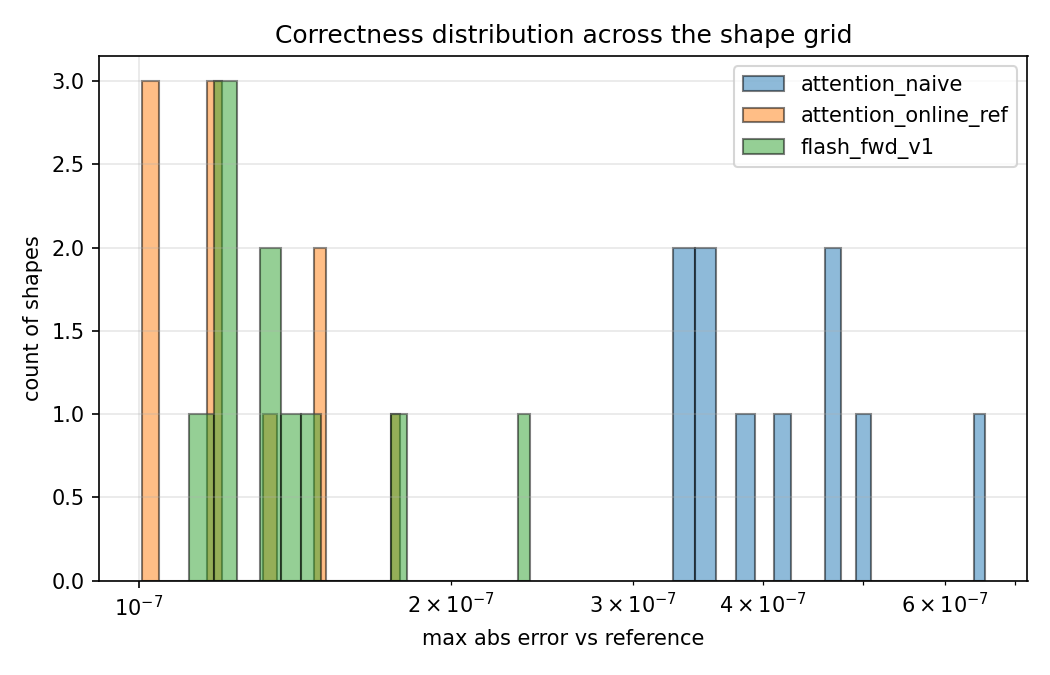
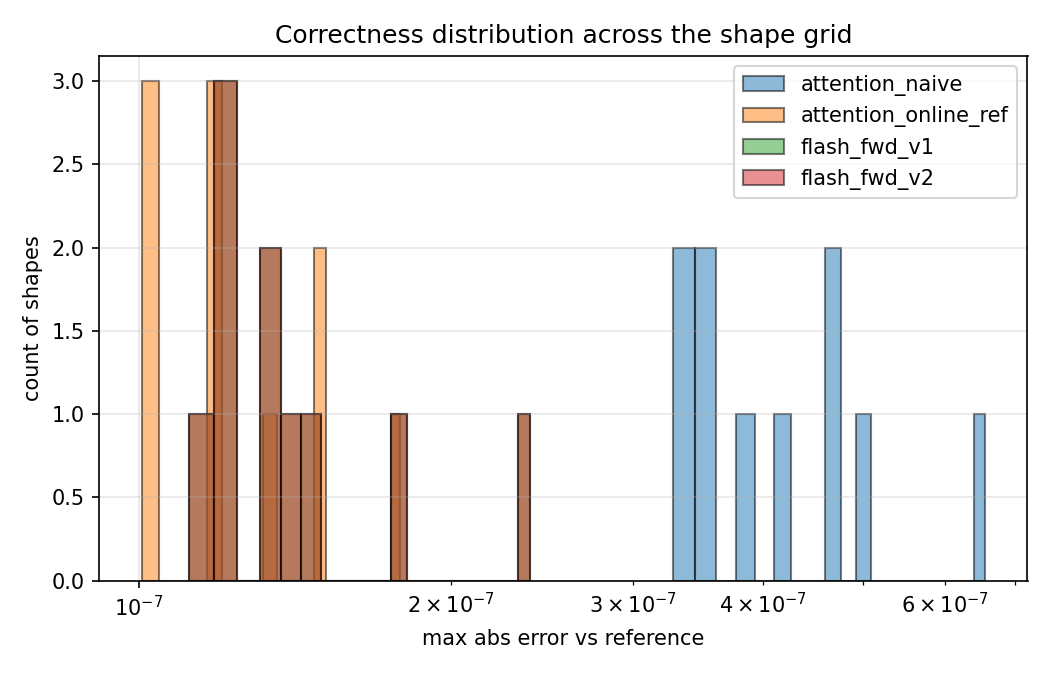
bench(m6): 50-row T4 sweep with flash_fwd_v2 + regenerated plots
Replaces the M5-era all.csv (40 rows, 4 variants, git_sha 5c55da0) with
the full five-variant sweep at 5d07586 on Tesla T4. Every M6 figure in
the README and docs now traces back to a row here, closing the exception
flagged in MILESTONES §M6 Status.

Numbers re-derived from a SINGLE sweep rather than across two. The naive
baseline at N=2048 D=64 is 6.7144 ms in this run vs 6.6619 ms in the M5
sweep, so the v2-over-naive figure moves 7.5x -> 7.6x. Updated in
theory/M6.md §13.1, flash_attention_notes.md, MILESTONES and README. The
6.66 ms in theory/M6.md §13 is left alone on purpose: that paragraph is
the pre-registration, and it correctly records what was known before
measuring.

The single-point framing was underselling the result. v1's problem was
not losing to naive at N=2048; it was losing from N=1024 onward, exactly
where the approach is supposed to pay. v2 beats naive at all ten shapes,
6.6x-21.9x. Added that table to §13.1 — it is the clearest evidence the
project's thesis now holds, and speedup_vs_naive.png shows it directly:
v2 clears the 1.0x line everywhere, v1 drops under it twice.

One row recorded with a caveat rather than as a win: at N=256 D=64, v2 is
faster than torch_ref (0.0792 vs 0.0976 ms). It is the only such row, and
torch's own N=512 figure (0.1086 ms) is slower than its N=256 one, which
suggests backend selection rather than a like-for-like loss. §13.1 says
so instead of quoting 0.81x as a headline.
[…]

diff --git a/docs/MILESTONES.md b/docs/MILESTONES.md
@@ -359,19 +359,18 @@ before ticking the milestone. These are what separate "I typed the kernel" from
 - [x] Naming/registration in the harness so v1 and v2 appear side-by-side in plots — `bindings.cu`, `flash_from_scratch/__init__.py`, `benchmarks/variants.py`, `perf_model.py`, `plot.py` (`VARIANT_ORDER`), `tests/test_all_variants.py`.
 - [x] **Runs faster than v1 on at least `N ≥ 512, D=64`; log the improvement in `docs/flash_attention_notes.md`.** Passed at **6.27× / 11.76× / 13.22×** for `N = 512 / 1024 / 2048` at `D = 64`. Logged in `docs/flash_attention_notes.md` (top callout) and `theory/M6.md` §13.1, which also scores the pre-registered 4–7× prediction and explains why it came in low.
 
-**Status.** **Complete** on `5d07586` (2026-08-16), Colab Tesla T4 / nvcc 12.8. All 10 TODOs done. **Headline: 13.22× over v1 at `N = 2048, D = 64` (11.69 ms → 0.88 ms)**, with the full grid ranging 3.41×–13.22× and widening with `N`. The bar that actually mattered — the one `theory/M6.md` §13 named above the MILESTONES bar — is beating `attention_naive` at `N = 2048, D = 64`: v1 *lost* there (6.66 ms vs 11.69 ms, 0.57×), v2 wins by **7.5×**. The gap to `torch_ref` (cuBLAS SDPA, 0.426 ms) narrows from ~27× to ~2.1×, i.e. 3.7% → **48%** of torch's effective throughput. Correctness: `test_flash_fwd_v2` passes 25/25 (1 config guard + 8 edge + 10 `M6Grid` + 6 `M6Parity`), full `ctest` 79/79, pytest 74/74; `max_abs_err_vs_ref` is *identical* to v1's in all ten benchmark rows, which is the empirical form of the bit-parity claim. `ptxas`: **zero spills in either kernel** (v1 63 registers, v2 64 at both `D`), and warps/SM is 32 for both — so the reported "occupancy" is unchanged across a 13× speedup, exactly as `theory/M6.md` §7.2 predicted. Details in `docs/ptxas_v1_vs_v2.md` §3 and `theory/M6.md` §13.1, the latter also scoring the pre-registered 4–7× prediction (too conservative) and explaining why.
+**Status.** **Complete** on `5d07586` (2026-08-16), Colab Tesla T4 / nvcc 12.8. All 10 TODOs done. **Headline: 13.22× over v1 at `N = 2048, D = 64` (11.69 ms → 0.88 ms)**, with the full grid ranging 3.41×–13.22× and widening with `N`. The bar that actually mattered — the one `theory/M6.md` §13 named above the MILESTONES bar — is beating `attention_naive` at `N = 2048, D = 64`: v1 *lost* there (6.71 ms vs 11.69 ms, 0.57×), v2 wins by **7.6×** — and v2 now beats naive at **all ten shapes** (6.6×–21.9×), where v1 fell behind from `N = 1024` onward. The gap to `torch_ref` (cuBLAS SDPA, 0.426 ms) narrows from ~27× to ~2.1×, i.e. 3.6% → **48%** of torch's effective throughput. Correctness: `test_flash_fwd_v2` passes 25/25 (1 config guard + 8 edge + 10 `M6Grid` + 6 `M6Parity`), full `ctest` 79/79, pytest 74/74; `max_abs_err_vs_ref` is *identical* to v1's in all ten benchmark rows, which is the empirical form of the bit-parity claim. `ptxas`: **zero spills in either kernel** (v1 63 registers, v2 64 at both `D`), and warps/SM is 32 for both — so the reported "occupancy" is unchanged across a 13× speedup, exactly as `theory/M6.md` §7.2 predicted. Details in `docs/ptxas_v1_vs_v2.md` §3 and `theory/M6.md` §13.1, the latter also scoring the pre-registered 4–7× prediction (too conservative) and explaining why.
 
-**Two items carried out of M6 rather than blocking it.** Both are recorded here so the `[x]` is not silently overclaiming:
+**One item carried out of M6 rather than blocking it**, recorded here so the `[x]` is not silently overclaiming: the **Nsight bank-conflict metric is deferred to M9 by design.** It needs `ncu`, and `docs/flash_attention_notes.md`'s change log already scheduled Nsight backfill for the M9 landing commit. The *prediction* attached to it (occupancy will not move) is independently confirmed by `ptxas`: 32 warps/SM for both kernels.
 
-1. **Nsight bank-conflict metric — deferred to M9 by design.** It needs `ncu`, and `docs/flash_attention_notes.md`'s change log already scheduled Nsight backfill for the M9 landing commit. The *prediction* attached to it (occupancy will not move) is independently confirmed by `ptxas`: 32 warps/SM for both kernels.
-2. **`benchmarks/results/all.csv` still lacks the v2 rows**, and `docs/plots/*.png` predate v2. Until that lands, the 13.22× / 7.5× / 48% figures quoted above and in the README trace to `docs/ptxas_v1_vs_v2.md` and `theory/M6.md` §13.1 — not to a committed CSV row. That is a live exception to M5's portfolio hook (*"every claim in the README traces back to a row in `all.csv`"*) and should be closed by a `bench(m6)` commit before M10 polish.
+*(Previously also carried: the benchmark artifacts. **Closed** — `benchmarks/results/all.csv` is now the 50-row, five-variant sweep at `5d07586`, and `docs/plots/*.png` are regenerated with the v2 series. Every figure quoted above traces to a row in that file, restoring M5's portfolio hook.)*
 
 **Verification plan.**
 
 - Correctness parity with v1. **✓ Passed** — `M6Parity` diffs v2 against v1 directly at 1e-5 (tighter than the 5e-4 CPU-ref bound) across 6 shapes, plus a Python mirror in `tests/test_all_variants.py`. Benchmark rows corroborate: identical `max_abs_err_vs_ref` for v1 and v2 at every shape.
 - Nsight Compute shows: fewer bank conflicts, higher achieved occupancy, or higher DRAM throughput than v1 — pick which and prove it. **Picked: fewer bank conflicts** (`l1tex__data_bank_conflicts_pipe_lsu_mem_shared`, predicted ~8.4× drop). Explicitly *not* achieved occupancy — it reads 100% for both v1 and v2, for the reason derived in `theory/M6.md` §7.2, and any claim resting on it would be resting on the wrong number. **⏳ Carried to M9** (needs `ncu`; the notes change log already scheduled Nsight backfill there). The prediction that occupancy would *not* move is already confirmed independently: `ptxas` gives 32 warps/SM for both kernels.
 - `docs/ptxas_v1_vs_v2.md` exists and its numbers are consistent with your occupancy claim (fewer registers → higher theoretical occupancy, no spills, etc.). **✓ Passed, with the parenthetical corrected.** No spills in either kernel, as required. But "fewer registers" is *not* what happened: v2 uses **more** registers per thread (64 vs 63) and fewer per *CTA* (32,768 vs 64,512). The occupancy claim rests on CTA-level residency — v2 reaches 2 CTAs/SM on the thread, register and shared-memory limits simultaneously — not on per-thread register count, which moved the wrong way. See `docs/ptxas_v1_vs_v2.md` §2.2, §3.
-- New plot row in `docs/plots/runtime_vs_N.png` showing v2 above v1. **⏳ Carried** — the sweep ran on Colab and v2 is comfortably above v1 at every shape, but the refreshed PNGs and `all.csv` were not brought back from the session. Regenerate with `scripts/bench.sh` and land as `bench(m6)`; see the second carried item under **Status**.
+- New plot row in `docs/plots/runtime_vs_N.png` showing v2 above v1. **✓ Passed** — `docs/plots/*.png` regenerated from the 50-row sweep; v2 sits below v1 (faster) at every shape on `runtime_vs_N.png`, and clears 1.0× everywhere on `speedup_vs_naive.png`, which v1 does not.
 
 **Understanding checkpoint.**
 

diff --git a/docs/flash_attention_notes.md b/docs/flash_attention_notes.md
@@ -10,8 +10,8 @@ Everything below is measured against `csrc/flash_fwd_v1.cu` at the M4 landing co
 >
 > Two consequences worth stating plainly, because they change the repo's headline claims:
 >
-> - **Flash now beats the naive kernel where it matters.** `attention_naive` is 6.66 ms at that shape. v1 *lost* to it (0.57×); v2 wins by **7.5×**. The project's central thesis — that IO-aware attention wins at large `N` — was not actually demonstrated by v1, and is now demonstrated by v2.
-> - **The gap to `torch_ref` (cuBLAS SDPA, 0.426 ms) closes from ~27× to ~2.1×**, i.e. from 3.7% to **48%** of torch's effective throughput.
+> - **Flash now beats the naive kernel everywhere, not just somewhere.** `attention_naive` is 6.71 ms at that shape; v1 *lost* to it (0.57×), v2 wins by **7.6×**. More important than the single point: v1 beat naive only at small `N` and fell behind from `N = 1024` (0.79× at `D=64`, 0.65× at `N=2048, D=32`), whereas **v2 wins at all ten shapes**, by 6.6×–21.9×. The project's central thesis — that IO-aware attention wins at large `N` — was not actually demonstrated by v1, and is now.
+> - **The gap to `torch_ref` (cuBLAS SDPA, 0.426 ms) closes from ~27× to ~2.1×**, i.e. from 3.6% to **48%** of torch's effective throughput.
 >
 > Full table and the analysis of why the pre-registered prediction (4–7×) came in low: [`../theory/M6.md`](../theory/M6.md) §13.1. Compiler-side evidence — **no register spills in either kernel**, and warps/SM identical at 32, so "occupancy" did not move at all: [`ptxas_v1_vs_v2.md`](ptxas_v1_vs_v2.md) §3.
 
@@ -145,8 +145,9 @@ At `D = 64, Br = 32`, **M4's asymptotic HBM ratio vs naive is 1× (parity)** —
 ## Change log
 
 - **M4 landing commit** — this file is created; sections 1–10 enumerated (§11 added shortly after).
-- **M6 landing commit** — sections **1, 2, 3, 4, 11 closed**; section 5 restated as M7-only (T4 is Turing); section 7's budget revised downward; section **12 opened** as the largest remaining lever.
-- **M6 measurement (Colab T4, `5d07586`)** — 13.2× at \(N = 2048, D = 64\); Flash overtakes `attention_naive` for the first time (7.5×). Recorded in the callout at the top of this file and in [`../theory/M6.md`](../theory/M6.md) §13.1. **One substantive correction:** §2's claim that `sV` suffered the same 32-way conflict as `sK` was wrong — `sV`'s lane-stride is 1. The full per-access audit that settles it is in [`../theory/M6.md`](../theory/M6.md) §5.1, and the error is dissected in §5.2 because the *reason* it was wrong (mistaking a loop counter for the lane index) is the single most common way to misread a shared-memory access pattern.
+- **M6 landing commit** — sections **1, 2, 3, 4, 11 closed**; section 5 restated as M7-only (T4 is Turing); section 7's budget revised downward; section **12 opened** as the largest remaining lever. **One substantive correction:** §2's claim that `sV` suffered the same 32-way conflict as `sK` was wrong — `sV`'s lane-stride is 1. The full per-access audit that settles it is in [`../theory/M6.md`](../theory/M6.md) §5.1, and the error is dissected in §5.2 because the *reason* it was wrong (mistaking a loop counter for the lane index) is the single most common way to misread a shared-memory access pattern.
+- **M6 measurement (Colab T4, `5d07586`)** — 13.2× over v1 at \(N = 2048, D = 64\); Flash overtakes `attention_naive` for the first time (7.6× there, and at *every* shape in the sweep). Recorded in the callout at the top of this file and in [`../theory/M6.md`](../theory/M6.md) §13.1.
+- **M6 benchmark artifacts** — `benchmarks/results/all.csv` refreshed to the 50-row, five-variant sweep at `5d07586`; `docs/plots/*.png` regenerated with the v2 series.
 - **M7 landing commit** — sections 5, 7, 8, 9 to be marked *closed*.
 - **M9 landing commit** — Nsight metrics backfilled into §2 and §4 (`l1tex__data_bank_conflicts_pipe_lsu_mem_shared`, stall-reason breakdown).
 - **M10 landing commit** — section 6 explicitly *not closed*; framed as "reading the gap."

diff --git a/theory/M6.md b/theory/M6.md
@@ -664,7 +664,20 @@ They don't multiply cleanly: once the biggest bottleneck goes, the second-bigges
 | 64 | 1024 | 2.9474 | 0.2506 | **11.76×** |
 | 64 | 2048 | 11.6915 | 0.8843 | **13.22×** |
 
-Both bars from above are cleared. The MILESTONES bar (faster at \(N \ge 512, D = 64\)) passes with 6.27×, 11.76× and 13.22×. The bar that actually mattered — **beating `attention_naive` at \(N = 2048, D = 64\)** — flips from a loss to a rout: naive is 6.66 ms, v1 lost to it at 0.57×, and v2 wins at **7.5×**. For scale, `torch_ref` (cuBLAS-backed SDPA) is 0.426 ms at that shape, so v2 now runs at **48% of torch's effective throughput**, up from v1's 3.7%.
+Both bars from above are cleared. The MILESTONES bar (faster at \(N \ge 512, D = 64\)) passes with 6.27×, 11.76× and 13.22×. The bar that actually mattered — **beating `attention_naive` at \(N = 2048, D = 64\)** — flips from a loss to a rout: naive is 6.71 ms, v1 lost to it at 0.57×, and v2 wins at **7.6×**. For scale, `torch_ref` (cuBLAS-backed SDPA) is 0.426 ms at that shape, so v2 now runs at **48% of torch's effective throughput**, up from v1's 3.6%.
+
+The single point undersells it. v1's problem was not that it lost at \(N = 2048\); it was that it lost *from \(N = 1024\) onward*, i.e. precisely in the regime the whole approach exists to serve. v2 wins at **every shape in the sweep**:
+
+| naive ÷ Flash | 128 | 256 | 512 | 1024 | 2048 |
+|---|---|---|---|---|---|
+| v1, `D=32` | 6.44× | 3.60× | 2.46× | 1.06× | **0.65×** |
+| v2, `D=32` | 21.94× | 14.91× | 9.70× | 7.02× | **6.56×** |
+| v1, `D=64` | 3.66× | 2.30× | 1.53× | **0.79×** | **0.57×** |
+| v2, `D=64` | 18.02× | 12.12× | 9.57× | 9.23× | **7.59×** |
+
+Both Flash rows still decay with \(N\), which is expected and is not a bug: naive's \(O(N^2)\) HBM traffic is being compared against a kernel whose own work is also \(O(N^2)\), so the ratio tends to a constant rather than growing. The difference is that v1's constant was below 1 and v2's is around 7.
+
+**One data point that should not be over-read.** At \(N = 256, D = 64\), v2 is *faster than* `torch_ref` — 0.0792 ms against 0.0976 ms, a ratio of 0.81. It is the only such row in the sweep, and the honest reading is not "we beat cuBLAS." At small \(N\) both kernels are dominated by launch and dispatch overhead rather than by arithmetic, and torch's SDPA also switches backend kernels by shape, so the 0.0976 ms sits oddly above its own \(N = 512\) figure of 0.1086 ms — plausibly a backend-selection artifact rather than a like-for-like loss. The defensible statement is the trend across the rest of the grid: v2 is 1.1–1.3× off torch up to \(N = 512\), widening to 2.1× at \(N = 2048\) as the comparison becomes genuinely compute-bound and cuBLAS's tuning starts to tell.
 
 **The prediction was too conservative, and the reason is instructive.** §13 predicted ~4–7× combined, landing at 1.7–2.9 ms. The measurement is 0.88 ms, i.e. 13.2×. The error traces to §5.4, where the cost of the bank conflicts was estimated as a *throughput* bound — wavefronts divided by LSU issue rate — giving ~4.6 ms of 11.65 ms, about 40% of runtime. A throughput bound is a lower bound on the true cost. With one CTA per SM (§7.2) there were no other warps for the scheduler to issue during a conflicted access, so each serialized wavefront was largely *exposed* as latency rather than overlapped with useful work. Working backwards from 13.2×, conflict-related stalls must have accounted for roughly 92% of v1's runtime, not 40%. Changes 1 and 3 therefore compound rather than add: removing the conflicts shortens the stalls, and the second CTA hides what remains.
 

diff --git a/README.md b/README.md
@@ -17,7 +17,7 @@ Work in progress. Roadmap: [`docs/MILESTONES.md`](docs/MILESTONES.md).
 | Naive CUDA | Materializes `S` and `P` | Baseline memory cost | done (M2) |
 | Online softmax | Streaming softmax reference | Numerical stability | done (M3) |
 | Flash v1 | Tiled K/V, no `N×N` write | IO-aware attention | done (M4) |
-| Flash v2 | Padded `sK` (bank-conflict-free), register-resident `Õ`/`P`, 512-thread CTAs, `float4` loads | Shared-memory banking / occupancy | done (M6) — **13.2× over v1**, 7.5× over naive at `N=2048, D=64` |
+| Flash v2 | Padded `sK` (bank-conflict-free), register-resident `Õ`/`P`, 512-thread CTAs, `float4` loads | Shared-memory banking / occupancy | done (M6) — **13.2× over v1**, 7.6× over naive at `N=2048, D=64` |
 | Flash causal + batch | Causal mask, batching, multi-head, boundary handling | LLM-shaped inputs | pending (M7) |
 | Flash fp16 | fp16 input, fp32 accumulation | Mixed precision | pending (M8) |
 
